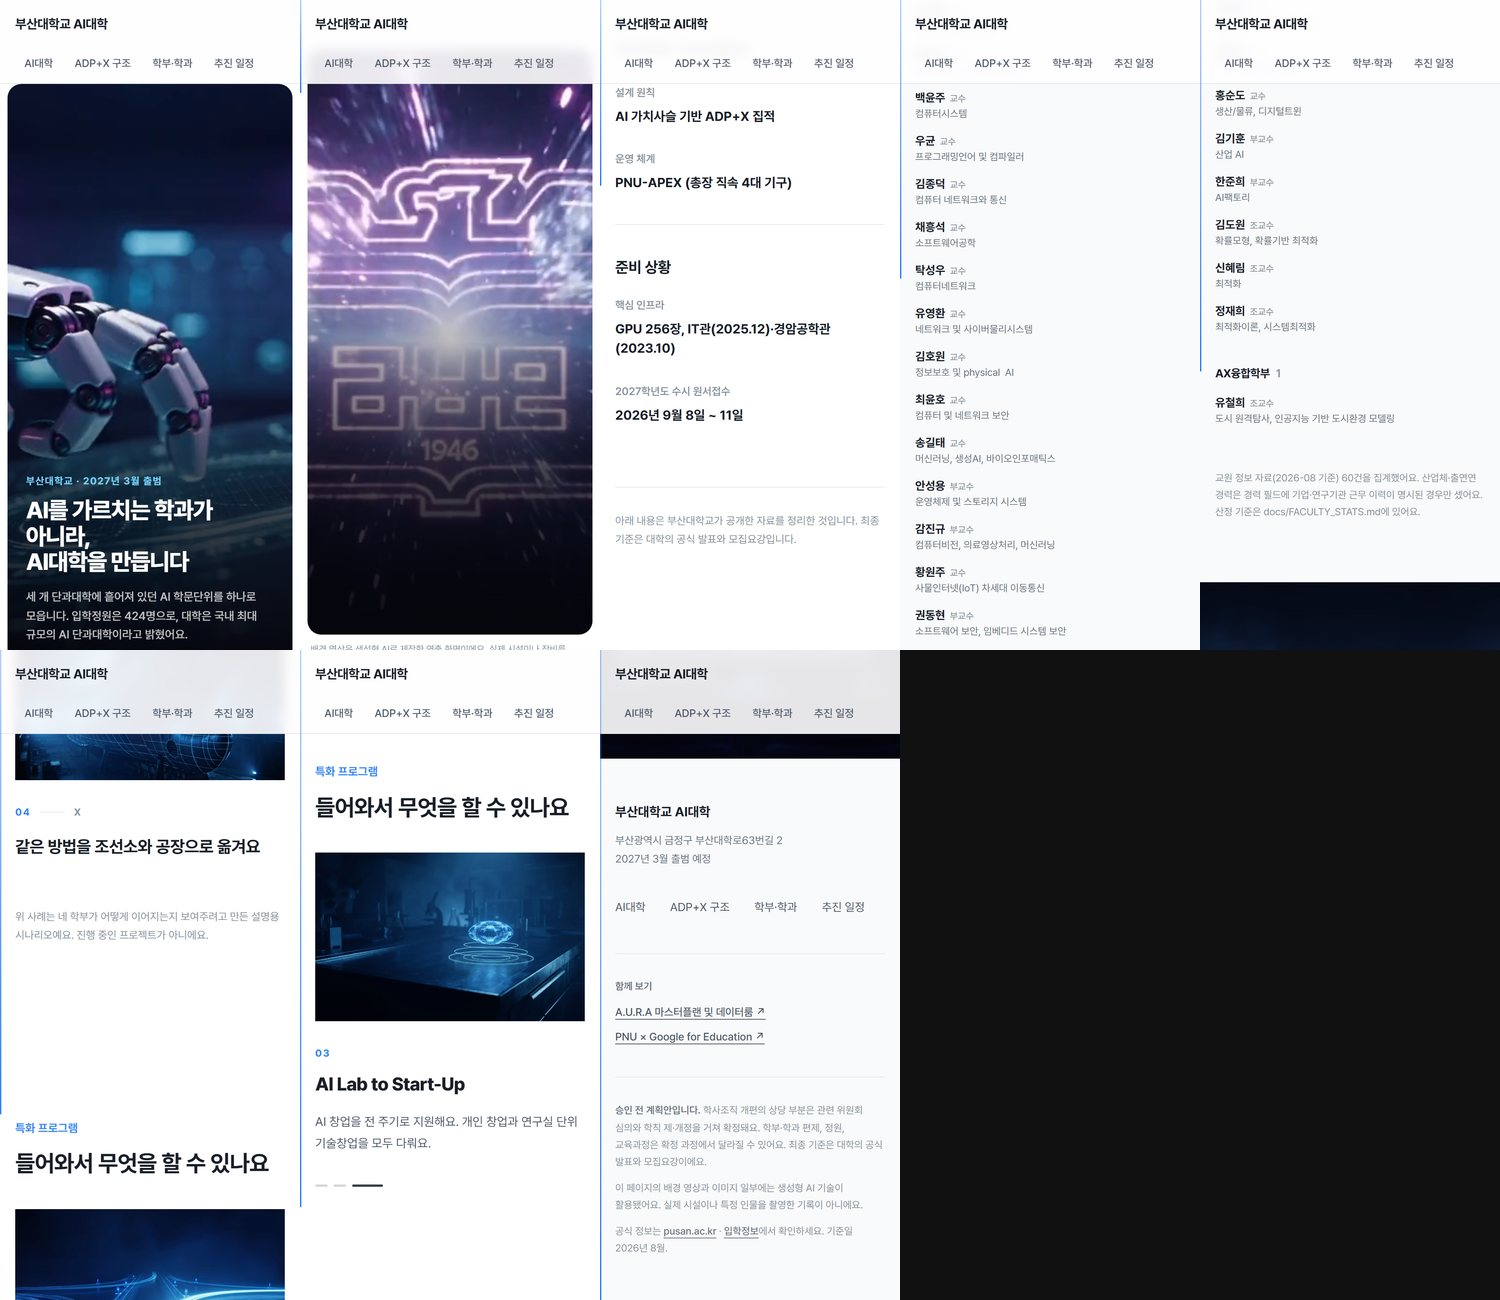
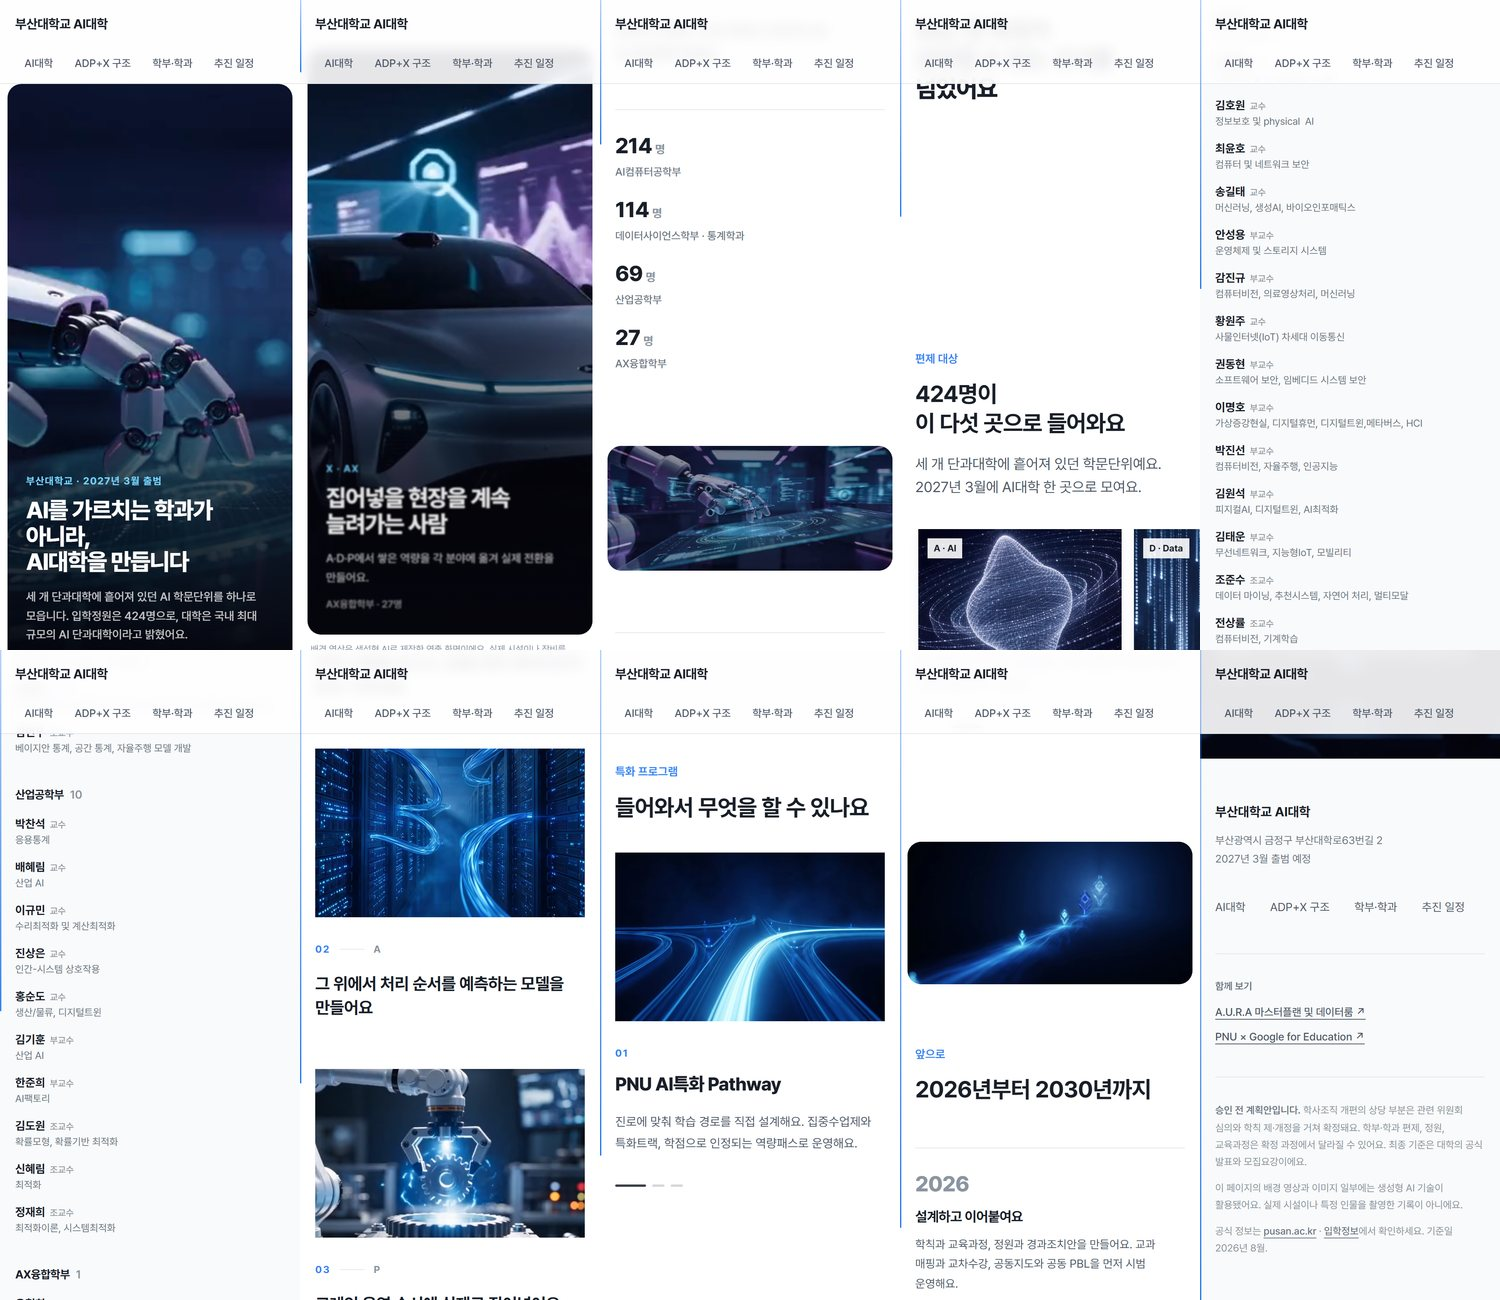
18회차 기록: 모바일 점검과 레일 스와이프
Claude-Session: https://claude.ai/code/session_01DneFDYxx25DjwNJdj8uLH7

diff --git a/docs/GAP_LOG.md b/docs/GAP_LOG.md
@@ -612,3 +612,39 @@ toss 는 흰 화면과 전면 사진을 계속 번갈아 간다.
 **남은 것**: 홈에 아직 없는 내용은 운영 체계(PNU-APEX) 하나뿐이다. 다만 25화면이면
 toss(20화면)를 이미 넘었다. 다음 회차부터는 길이를 더 늘리는 쪽보다 화면 하나하나의
 완성도를 보는 쪽이 맞다.
+
+## 18회차 — 18회차 동안 모바일을 한 번도 안 봤다
+
+17회차에 "길이를 더 늘리는 쪽보다 화면 하나하나의 완성도" 로 방향을 바꾸겠다고
+적었다. 그 첫 번째로 **한 번도 확인하지 않은 것**부터 봤다.
+
+**모든 캡처가 1280x800 이었다.** 홍보 페이지를 실제로 여는 화면은 대부분 손안인데
+18회차 동안 한 번도 보지 않았다. `scripts/mobile.mjs` 를 만들어 390x844 로 훑었다.
+
+**먼저 확인한 것**: 문서 가로 넘침 없음 (390/390). 프로그램 절 내용 550px / 화면
+844px — 넘침 없음. 대부분은 멀쩡했다.
+
+**찾은 결함**: 학부 레일.
+
+- 카드가 264px 인데 화면이 390px 라 **어느 스크롤 위치에서도 카드가 좌우로 잘려
+  있다.** 온전한 카드를 한 장도 못 본다.
+- 컨테이너가 `overflow-hidden` 이라 **손가락으로 밀어도 아무 반응이 없다.** 가로로
+  늘어선 것을 밀어 보는 것은 손안에서 가장 먼저 나오는 동작인데 죽어 있었다.
+
+**고침**: 좁은 화면에서는 스크롤 구동을 끄고 평범한 가로 스크롤 + 스냅으로 돌렸다.
+절 높이도 240svh 고정을 걷고 `auto` 로 뒀다 — 스크롤로 밀지 않으니 여분의 스크롤
+거리가 필요 없다.
+
+데스크톱은 그대로다. 마우스에는 가로로 밀 방법이 마땅치 않아 세로 스크롤이 미는
+편이 낫고, 잘린 카드가 "더 있다"는 신호도 거기서는 유효하다.
+
+**중간에 잡은 것**: `snap-start` 만 걸었더니 첫 카드가 화면 끝에 붙었다. 스냅은
+항목을 스크롤포트 시작선에 맞추므로 `ul` 의 좌측 여백만큼 스크롤이 밀린다.
+`scroll-pl-6` 으로 그 여백을 스냅 기준선에 알려줬다.
+
+**재측정**: 390px 에서 첫 카드가 여백을 두고 온전히 서고 다음 카드가 살짝 보인다 —
+밀라는 신호다. 데스크톱 캡처에서 기존 스크롤 구동 동작은 그대로다.
+
+**다음 회차 후보**: `scripts/mobile.mjs` 로 서브페이지(`/ai-college`,
+`/ai-college/adpx`, `/ai-college/schools/:slug`, `/ai-college/roadmap`)도 훑어야 한다.
+홈만 봤다.
